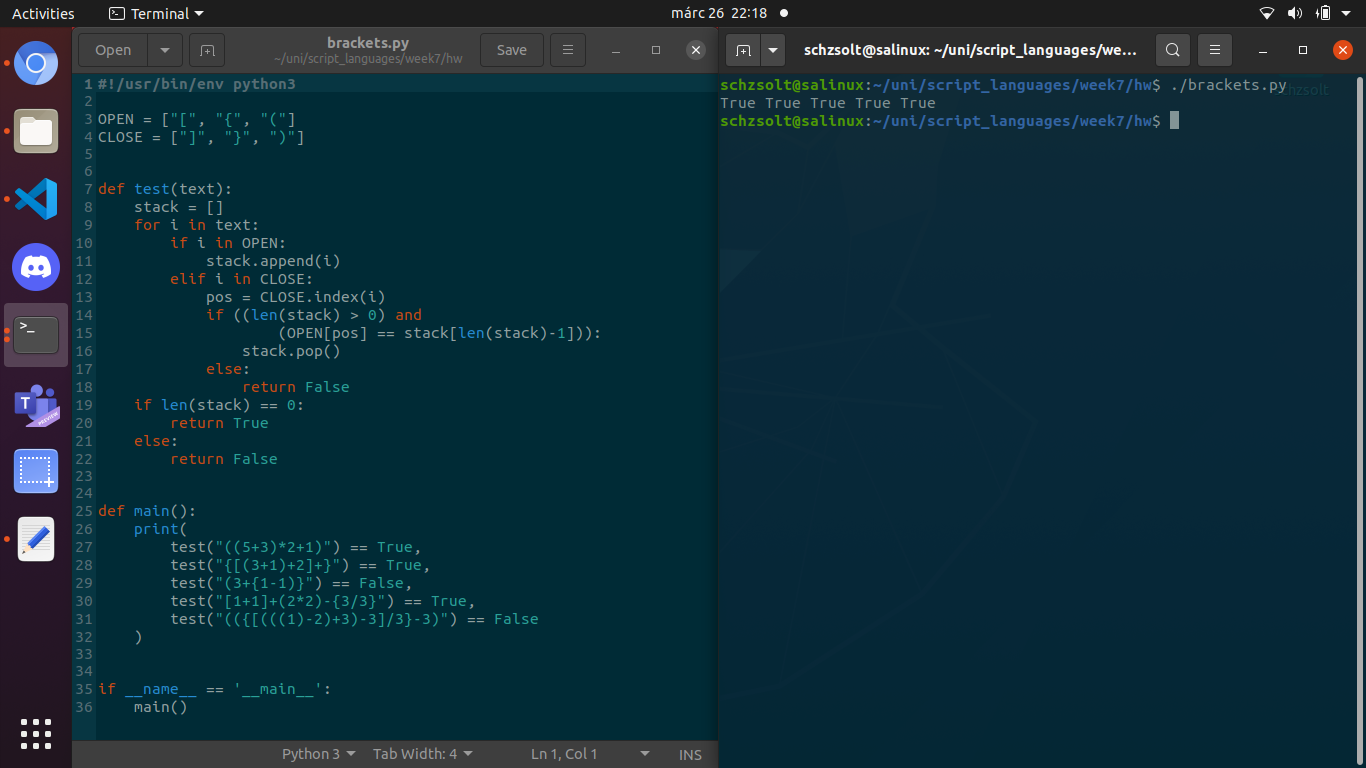
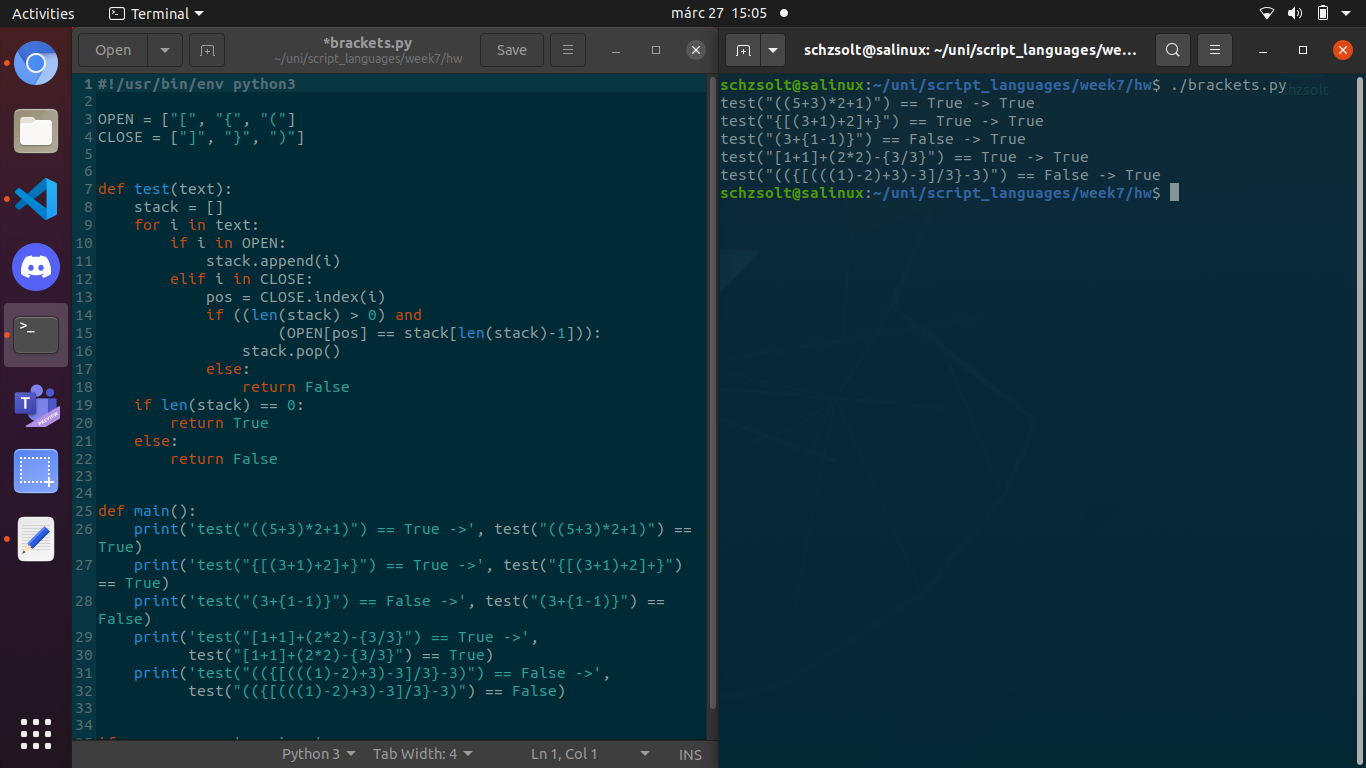
Added week8 homework

diff --git a/week8/hw/aoc.py b/week8/hw/aoc.py
@@ -1,0 +1,58 @@
+#!/usr/bin/env python3
+
+TABLE = """737	1866	1565	1452	1908	1874	232	1928	201	241	922	281	1651	1740	1012	1001
+339	581	41	127	331	133	51	131	129	95	499	527	518	435	508	494
+1014	575	1166	259	152	631	1152	1010	182	943	163	158	1037	1108	1092	887
+56	491	409	1263	1535	41	1431	1207	1393	700	1133	53	131	466	202	62
+632	403	118	352	253	672	711	135	116	665	724	780	159	133	90	100
+1580	85	1786	1613	1479	100	94	1856	546	76	1687	1769	1284	1422	1909	1548
+479	356	122	372	786	1853	979	116	530	123	1751	887	109	1997	160	1960
+446	771	72	728	109	369	300	746	86	910	566	792	616	84	338	57
+6599	2182	200	2097	4146	7155	7018	1815	1173	4695	201	7808	242	3627	222	7266
+1729	600	651	165	1780	2160	626	1215	149	179	1937	1423	156	129	634	458
+1378	121	146	437	1925	2692	130	557	2374	2538	2920	2791	156	317	139	541
+1631	176	1947	259	2014	153	268	752	2255	347	227	2270	2278	544	2379	349
+184	314	178	242	145	410	257	342	183	106	302	320	288	151	449	127
+175	5396	1852	4565	4775	665	4227	171	4887	181	2098	4408	2211	3884	2482	158
+1717	3629	244	258	281	3635	235	4148	3723	4272	3589	4557	4334	4145	3117	4510
+55	258	363	116	319	49	212	44	303	349	327	330	316	297	313	67
+"""
+
+AOCTABLE = """4347	3350	196	162	233	4932	4419	3485	4509	4287	4433	4033	207	3682	2193	4223
+648	94	778	957	1634	2885	1964	2929	2754	89	972	112	80	2819	543	2820
+400	133	1010	918	1154	1008	126	150	1118	117	148	463	141	940	1101	89
+596	527	224	382	511	565	284	121	643	139	625	335	657	134	125	152
+2069	1183	233	213	2192	193	2222	2130	2073	2262	1969	2159	2149	410	181	1924
+1610	128	1021	511	740	1384	459	224	183	266	152	1845	1423	230	1500	1381
+5454	3936	250	5125	244	720	5059	202	4877	5186	313	6125	172	727	1982	748
+3390	3440	220	228	195	4525	1759	1865	1483	5174	4897	4511	5663	4976	3850	199
+130	1733	238	1123	231	1347	241	291	1389	1392	269	1687	1359	1694	1629	1750
+1590	1394	101	434	1196	623	1033	78	890	1413	74	1274	1512	1043	1103	84
+203	236	3001	1664	195	4616	2466	4875	986	1681	152	3788	541	4447	4063	5366
+216	4134	255	235	1894	5454	1529	4735	4962	220	2011	2475	185	5060	4676	4089
+224	253	19	546	1134	3666	3532	207	210	3947	2290	3573	3808	1494	4308	4372
+134	130	2236	118	142	2350	3007	2495	2813	2833	2576	2704	169	2666	2267	850
+401	151	309	961	124	1027	1084	389	1150	166	1057	137	932	669	590	188
+784	232	363	316	336	666	711	430	192	867	628	57	222	575	622	234
+"""
+
+
+def main():
+    lines = TABLE.splitlines()
+    li = []
+    sum = 0
+    for l in lines:
+        l = list(l.split())
+        for i in l:
+            li.append(int(i))
+        l = li[:]
+        li = []
+        sum += max(l)-min(l)
+
+    print(sum)
+
+    return
+
+
+if __name__ == '__main__':
+    main()

diff --git a/week8/hw/stack.py b/week8/hw/stack.py
@@ -1,0 +1,72 @@
+#!/usr/bin/env python3
+
+class Stack:
+    def __init__(self):
+        self.data = []
+
+    def append(self, val):
+        self.data.append(val)
+
+    def size(self):
+        return len(self.data)
+
+    def empty(self):
+        # return not bool(self.data.size()))
+        return self.size() == 0
+
+    def remove(self):
+        if self.empty():
+            return None
+        else:
+            return(self.data.pop())
+
+
+class MyQueue:
+    s1 = Stack()
+    s2 = Stack()
+
+    def append(self, val):
+        self.s1.append(val)
+
+    def popleft(self):
+        i = len(self.s1.data)-1
+        while i >= 0:
+            self.s2.append(self.s1.data[i])
+            i -= 1
+
+        self.s1.data = []
+        self.s2.data.pop()
+
+        i = len(self.s1.data)-1
+        while i > 0:
+            self.s1.append(self.s2.data[i])
+            i -= 1
+
+        for n in self.s2.data:
+            self.s1.append(n)
+
+        return self.s1.data
+
+    def is_empty(self):
+        return self.s1.empty()
+
+    def size(self):
+        return self.s1.size()
+
+    def __str__(self):
+        return f'q[{self.s1.data}]'
+
+
+def main():
+    queue = MyQueue()
+    queue.append(5)
+    queue.append(8)
+    queue.append(13)
+    print('queue output: ', queue)
+    print('queue size: ', queue.size())
+    print('after popleft: ', queue.popleft())
+    print('is empty: ', queue.is_empty())
+
+
+if __name__ == '__main__':
+    main()

diff --git a/week8/hw/sphere.py b/week8/hw/sphere.py
@@ -1,0 +1,55 @@
+#!/usr/bin/env python3
+import math
+
+
+class Sphere:
+    def __init__(self, r):
+        self.r = r
+
+    def a(self):
+        return self.r**2 * math.pi * 4
+
+    def v(self):
+        return (4 * math.pi * self.r**3) / 3
+
+    def __lt__(self, other):
+        return self.a() < other.a()
+
+    def __gt__(self, other):
+        return self.a() > other.a()
+
+    def __le__(self, other):
+        return self.a() <= other.a()
+
+    def __ge__(self, other):
+        return self.a() >= other.a()
+
+    def __str__(self):
+        return f'Sphere({self.r})'
+
+
+class Ellipse:
+
+    def __init__(self, a, b):
+        self.a = a
+        self.b = b
+
+    def area(self):
+        return self.a * self.b * math.pi
+
+    def __str__(self):
+        return f'Ellipse({self.a}, {self.b})'
+
+
+def main():
+    sp1 = Sphere(5)
+    sp2 = Sphere(7)
+
+    print(f'{sp1} > {sp2} -> {sp1 > sp2}')
+    print(f'{sp1} < {sp2} -> {sp1 < sp2}')
+    print(f'{sp1} >= {sp2} -> {sp1 >= sp2}')
+    print(f'{sp1} <= {sp2} -> {sp1 <= sp2}')
+
+
+if __name__ == '__main__':
+    main()

diff --git a/week8/hw/enumerate.py b/week8/hw/enumerate.py
@@ -1,0 +1,39 @@
+#!/usr/bin/env python3
+from enum import Enum
+
+DEEP_TONE = 'aáoóuú'
+HIGH_TONE = 'eéiíöőüű'
+
+class Tones(Enum):
+    DEEP = 1
+    HIGH = 2
+    MIXED = 3
+    NONE = 4
+
+    def deep_or_high(word):
+        w = list(word)
+        deep = 0
+        high = 0
+        for c in w:
+            if(DEEP_TONE.find(c) != -1):
+                deep += 1
+            if(HIGH_TONE.find(c) != -1):
+                high += 1
+        if(deep > 0 and high > 0):
+            return Tones.MIXED.name
+        elif(deep > 0 and high == 0):
+            return Tones.DEEP.name
+        elif(deep == 0 and high != 0):
+            return Tones.HIGH.name
+        else:
+            return Tones.NONE.name
+
+
+def main():
+    words = ["ablak", "erkély", "kisvasút", "magas", "mély", "pffff"]
+    for w in words:
+        print("{}: This word is {} toned!".format(w, Tones.deep_or_high(w)))
+
+
+if __name__ == '__main__':
+    main()

diff --git a/week7/hw/brackets.py b/week7/hw/brackets.py
@@ -23,13 +23,13 @@ def test(text):
 
 
 def main():
-    print(
-        test("((5+3)*2+1)") == True,
-        test("{[(3+1)+2]+}") == True,
-        test("(3+{1-1)}") == False,
-        test("[1+1]+(2*2)-{3/3}") == True,
-        test("(({[(((1)-2)+3)-3]/3}-3)") == False
-    )
+    print('test("((5+3)*2+1)") == True ->', test("((5+3)*2+1)") == True)
+    print('test("{[(3+1)+2]+}") == True ->', test("{[(3+1)+2]+}") == True)
+    print('test("(3+{1-1)}") == False ->', test("(3+{1-1)}") == False)
+    print('test("[1+1]+(2*2)-{3/3}") == True ->',
+          test("[1+1]+(2*2)-{3/3}") == True)
+    print('test("(({[(((1)-2)+3)-3]/3}-3)") == False ->',
+          test("(({[(((1)-2)+3)-3]/3}-3)") == False)
 
 
 if __name__ == '__main__':

diff --git a/week8/bag.py b/week8/bag.py
@@ -1,0 +1,28 @@
+#!/usr/bin/env python3
+
+class Bag:
+    def __init__(self):
+        self._data = []
+
+    def add(self, value):
+        self._data.append(value)
+
+    def add_twice(self, value):
+        self.add(value)
+        self.add(value)
+
+    def __str__(self):
+        return 'Bag(' + str(self._data) + ')'
+
+
+def main():
+    b = Bag()
+    b.add(5)
+    b.add(3)
+    print(b)
+    b.add_twice(9)
+    print(b)
+
+
+if __name__ == '__main__':
+    main()

diff --git a/week8/task1.py b/week8/task1.py
@@ -1,0 +1,23 @@
+#!/usr/bin/env python3
+
+class Rectangle:
+    def __init__(self, width, height):
+        self.width = width
+        self.height = height
+
+    def area(self):
+        return self.width * self.height
+
+    def __str__(self):
+        return f'Rectangle({str(self.width)}, {str(self.height)})'
+
+
+def main():
+    rect = Rectangle(50, 10)
+    rect.width = 60
+    print(rect.area())
+    print(rect)
+
+
+if __name__ == '__main__':
+    main()

diff --git a/week8/class2.py b/week8/class2.py
@@ -1,0 +1,22 @@
+#!/usr/bin/env python3
+
+class Hello:
+    def create_name(self, name):
+        self.name = name
+
+    def display_name(self):
+        return self.name
+
+    def greet(self):
+        print(f'Hello {self.name}!')
+
+
+def main():
+    h = Hello()
+    h.create_name('Alice')
+    print(h.display_name())
+    h.greet()
+
+
+if __name__ == '__main__':
+    main()

diff --git a/week8/class3.py b/week8/class3.py
@@ -1,0 +1,17 @@
+#!/usr/bin/env python3
+
+class Greetings:
+    def __init__(self, name):
+        self.name = name
+
+    def say_hi(self):
+        print(f'Hi {self.name}!')
+
+
+def main():
+    g = Greetings('Alice')
+    g.say_hi()
+
+
+if __name__ == '__main__':
+    main()

diff --git a/week8/class.py b/week8/class.py
@@ -1,0 +1,15 @@
+#!/usr/bin/env python3
+
+class MyClass:
+    def hello(self):
+        return "Hello World!"
+
+
+def main():
+    is_ok = True
+    obj = MyClass()
+    print(obj.hello())
+
+
+if __name__ == '__main__':
+    main()
